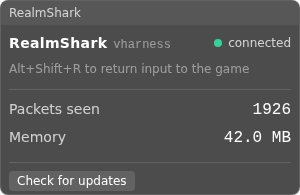
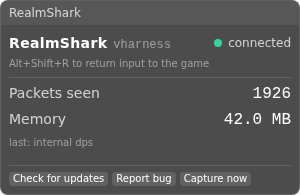
feat(overlay): pin Status panel actions to the bottom edge, reachable without scrolling (#181)
Closes #179

### Summary

The Status panel hid its action buttons below the fold at every preset
size — the committed `status-lg.png` (the panel's *largest* preset) cut
off "Check for updates", and "Report bug" had never been visible in a
gallery shot since the gallery existed.

Restructures `StatusPanel.tsx` rather than any other panel:

- Tightened the info-row spacing above the actions (hotkey hint, Packets
seen / Memory rows) — mostly reclaiming padding that wasn't doing useful
work.
- Pinned a single row of compact (`size="xs"`) action buttons — Check
for updates / Update & restart, Report bug, Capture now — to the panel's
**bottom edge** (`mt-auto`), so the row is reachable without scrolling
no matter how much info renders above it.
- Consolidated the three previously per-button status messages
(`checkMsg`/`bugMsg`/`captureMsg`) into one shared message line below
the action row, so that row keeps a fixed height regardless of which
action last fired.
- Grew the `md` preset height in `registry.ts` from 155px → 184px so the
action row fits there too (`lg` already fit once the info rows were
tightened, so it's unchanged at 195px).

### Before / after (committed gallery shots)

**md** — before (buttons clipped, `status-md-full.png` existed) → after
(all three actions visible, no `-full` variant):
- Before:
https://raw.githubusercontent.com/white-bag/thessal/staging/docs/screenshots/panels/status-md.png
- After:
[…]

diff --git a/overlay/src/renderer/src/panels/StatusPanel.tsx b/overlay/src/renderer/src/panels/StatusPanel.tsx
@@ -33,9 +33,7 @@ function StatusPanel({ size }: PanelContentProps): React.JSX.Element {
   const [update, setUpdate] = useState<UpdateInfo | null>(null)
   const [checking, setChecking] = useState(false)
   const [downloadPct, setDownloadPct] = useState<number | null>(null)
-  const [checkMsg, setCheckMsg] = useState('')
-  const [bugMsg, setBugMsg] = useState('')
-  const [captureMsg, setCaptureMsg] = useState('')
+  const [actionMsg, setActionMsg] = useState('')
 
   useEffect(() => {
     window.overlay.getSettings().then((settings) => setToggleHotkey(settings.toggleHotkey))
@@ -49,7 +47,7 @@ function StatusPanel({ size }: PanelContentProps): React.JSX.Element {
     })
     const offUpdate = window.overlay.onUpdateAvailable((info) => {
       setUpdate(info)
-      setCheckMsg('')
+      setActionMsg('')
     })
     const offProgress = window.overlay.onUpdateProgress(({ received, total }) =>
       setDownloadPct(total > 0 ? Math.round((received / total) * 100) : 0)
@@ -66,10 +64,10 @@ function StatusPanel({ size }: PanelContentProps): React.JSX.Element {
 
   const checkUpdates = async (): Promise<void> => {
     setChecking(true)
-    setCheckMsg('')
+    setActionMsg('')
     const info = await window.overlay.checkForUpdate()
     setUpdate(info)
-    if (!info) setCheckMsg('Up to date')
+    if (!info) setActionMsg('Up to date')
     setChecking(false)
   }
 
@@ -79,24 +77,29 @@ function StatusPanel({ size }: PanelContentProps): React.JSX.Element {
   }
 
   const reportBug = async (): Promise<void> => {
-    setBugMsg('Capturing…')
+    setActionMsg('Capturing…')
     try {
       await window.overlay.reportBug()
-      setBugMsg('Capture saved — drag it into the issue')
+      setActionMsg('Capture saved — drag it into the issue')
     } catch {
-      setBugMsg('Capture failed')
+      setActionMsg('Capture failed')
     }
   }
 
   const captureNow = async (): Promise<void> => {
-    setCaptureMsg('Capturing…')
+    setActionMsg('Capturing…')
     try {
       await window.overlay.captureNow()
-      setCaptureMsg('Capture saved to disk')
+      setActionMsg('Capture saved to disk')
     } catch {
-      setCaptureMsg('Capture failed')
+      setActionMsg('Capture failed')
     }
   }
+
+  // Single message slot below the action row (rather than one message per
+  // button) so the actions stay pinned to the bottom edge at a fixed height,
+  // and the latest fired action's message always wins - see
+  // docs/overlay-renderer.md.
 
   return (
     <div className="flex h-full w-full flex-col">
@@ -112,70 +115,56 @@ function StatusPanel({ size }: PanelContentProps): React.JSX.Element {
       </div>
 
       {size !== 'sm' && (
-        <div className="mt-2 text-xs text-fg-faint">{toggleHotkey} to return input to the game</div>
-      )}
+        <>
+          <div className="mt-1 text-2xs text-fg-faint">
+            {toggleHotkey} to return input to the game
+          </div>
 
-      {size !== 'sm' && (
-        <StatRow label="Packets seen" className="mt-3 border-t border-edge pt-2">
-          {packetCount}
-        </StatRow>
-      )}
+          <div className="mt-1.5 border-t border-edge pt-1">
+            <StatRow label="Packets seen">{packetCount}</StatRow>
+            <StatRow label="Memory" className="pt-0.5">
+              {heapMb === null ? 'n/a' : `${heapMb.toFixed(1)} MB`}
+            </StatRow>
+          </div>
 
-      {size !== 'sm' && (
-        <StatRow label="Memory" className="pt-1">
-          {heapMb === null ? 'n/a' : `${heapMb.toFixed(1)} MB`}
-        </StatRow>
-      )}
+          {size === 'lg' && lastPacket && (
+            <div className="mt-1 truncate text-2xs text-fg-faint">
+              last: {lastPacket.direction} {lastPacket.type}
+            </div>
+          )}
 
-      {size !== 'sm' && (
-        <div className="mt-3 border-t border-edge pt-2">
-          {update && (
-            <div className="flex items-center justify-between gap-2">
-              <span className="truncate text-xs text-success">
-                Update available → v{update.version}
-              </span>
-              {downloadPct == null ? (
-                <Button variant="success" className="shrink-0" onClick={installUpdate}>
+          {/* Pinned to the panel's bottom edge (mt-auto) so every action stays
+              reachable without scrolling regardless of how much info sits above it. */}
+          <div className="mt-auto border-t border-edge pt-1.5">
+            {update && (
+              <div className="mb-1 flex items-center justify-between gap-2">
+                <span className="truncate text-2xs text-success">v{update.version} available</span>
+                {downloadPct != null && (
+                  <span className="shrink-0 text-2xs text-fg-muted">{downloadPct}%…</span>
+                )}
+              </div>
+            )}
+            <div className="flex flex-wrap items-center gap-1">
+              {downloadPct == null && update && (
+                <Button variant="success" size="xs" onClick={installUpdate}>
                   Update &amp; restart
                 </Button>
-              ) : (
-                <span className="shrink-0 text-xs text-fg-muted">Downloading {downloadPct}%…</span>
               )}
-            </div>
-          )}
-          {downloadPct == null && (
-            <div className={`flex items-center justify-between gap-2 ${update ? 'mt-1' : ''}`}>
-              <Button className="shrink-0" onClick={checkUpdates} disabled={checking}>
-                {checking ? 'Checking…' : update ? 'Check again' : 'Check for updates'}
+              {downloadPct == null && (
+                <Button size="xs" onClick={checkUpdates} disabled={checking}>
+                  {checking ? 'Checking…' : update ? 'Check again' : 'Check for updates'}
+                </Button>
+              )}
+              <Button size="xs" onClick={reportBug}>
+                Report bug
               </Button>
-              {checkMsg && <span className="text-xs text-fg-faint">{checkMsg}</span>}
+              <Button size="xs" onClick={captureNow}>
+                Capture now
+              </Button>
             </div>
-          )}
-        </div>
-      )}
-
-      {size !== 'sm' && (
-        <div className="mt-2 flex items-center justify-between gap-2">
-          <Button className="shrink-0" onClick={reportBug}>
-            Report bug
-          </Button>
-          {bugMsg && <span className="truncate text-xs text-fg-faint">{bugMsg}</span>}
-        </div>
-      )}
-
-      {size !== 'sm' && (
-        <div className="mt-1 flex items-center justify-between gap-2">
-          <Button className="shrink-0" onClick={captureNow}>
-            Capture now
-          </Button>
-          {captureMsg && <span className="truncate text-xs text-fg-faint">{captureMsg}</span>}
-        </div>
-      )}
-
-      {size === 'lg' && lastPacket && (
-        <div className="mt-1 truncate text-xs text-fg-faint">
-          last: {lastPacket.direction} {lastPacket.type}
-        </div>
+            {actionMsg && <div className="mt-0.5 truncate text-2xs text-fg-faint">{actionMsg}</div>}
+          </div>
+        </>
       )}
     </div>
   )

diff --git a/overlay/src/renderer/src/panels/registry.ts b/overlay/src/renderer/src/panels/registry.ts
@@ -27,7 +27,7 @@ export const PANEL_REGISTRY: Record<string, PanelSpec> = {
     title: 'RealmShark',
     sizes: {
       sm: { width: 160, height: 50 },
-      md: { width: 260, height: 155 },
+      md: { width: 260, height: 184 },
       lg: { width: 300, height: 195 }
     },
     component: StatusPanel

diff --git a/docs/overlay-renderer.md b/docs/overlay-renderer.md
@@ -319,9 +319,19 @@ the IPC surface rather than a shared service. It subscribes to `onBridgeStatus`,
 `onPacketBatch` (just to count: `packetCount += packets.length`, `StatusPanel.tsx:42-45`),
 `onUpdateAvailable`, and `onUpdateProgress`, and polls `performance.memory`
 (a non-standard Chrome/Electron field, guarded, `StatusPanel.tsx:14-22`) every
-1 s. It also hosts the updater UI (Check / Update & restart) — see
-`build-and-release.md`. Content beyond the header is gated on `size !== 'sm'`,
-and the last-packet line only on `size === 'lg'`.
+1 s. It also hosts the updater UI (Check / Update & restart), plus "Report bug"
+and "Capture now" (`build-and-release.md`). Content beyond the header is gated
+on `size !== 'sm'`, and the last-packet line only on `size === 'lg'` — `sm`
+(160×50) stays a bare status glance with no actions at all, by design (#179).
+At `md`/`lg` the three actions render as a single row of compact (`size="xs"`)
+buttons **pinned to the panel's bottom edge** (`mt-auto`) so they're always
+reachable without scrolling, regardless of how much info renders above them;
+their status feedback shares one `actionMsg` line below the row instead of a
+message per button, to keep that row's height fixed; each handler sets
+`actionMsg` itself, so the latest action fired always wins rather than an
+older message masking a newer one. `registry.ts`'s `md` height was grown (155px → 184px,
+`lg` unchanged at 195px) to fit this row with the tightened info-row spacing
+above it — see issue #179 for the before/after gallery shots.
 
 **CharacterPanel** and **InstancePanel** (`panels/CharacterPanel.tsx`,
 `panels/InstancePanel.tsx`) render through the entity registry + sprite path
